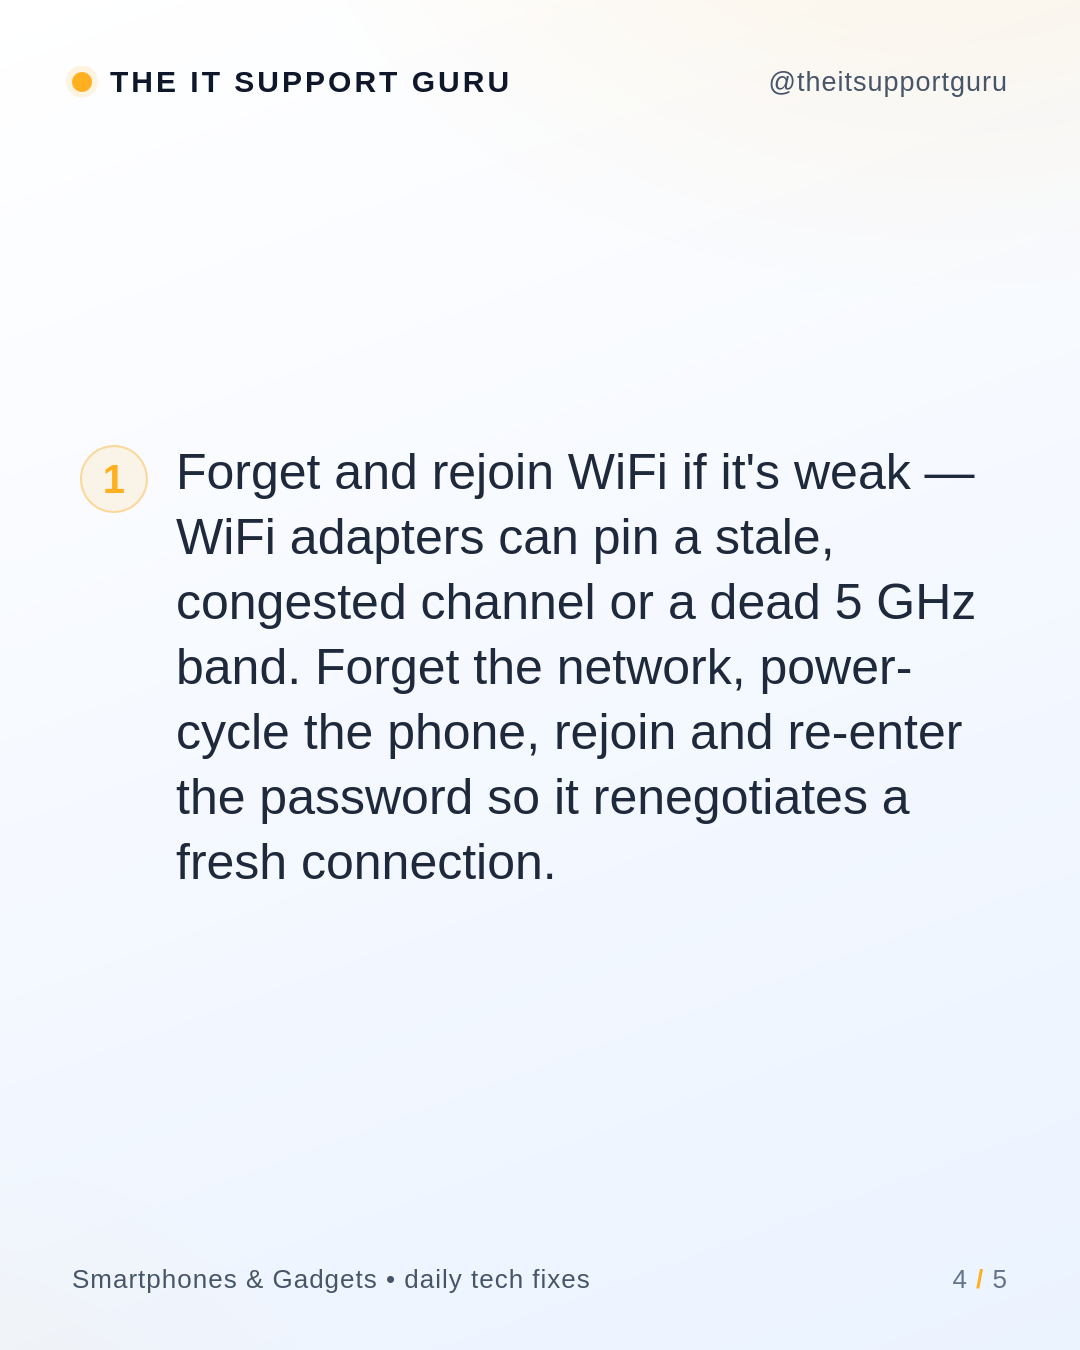
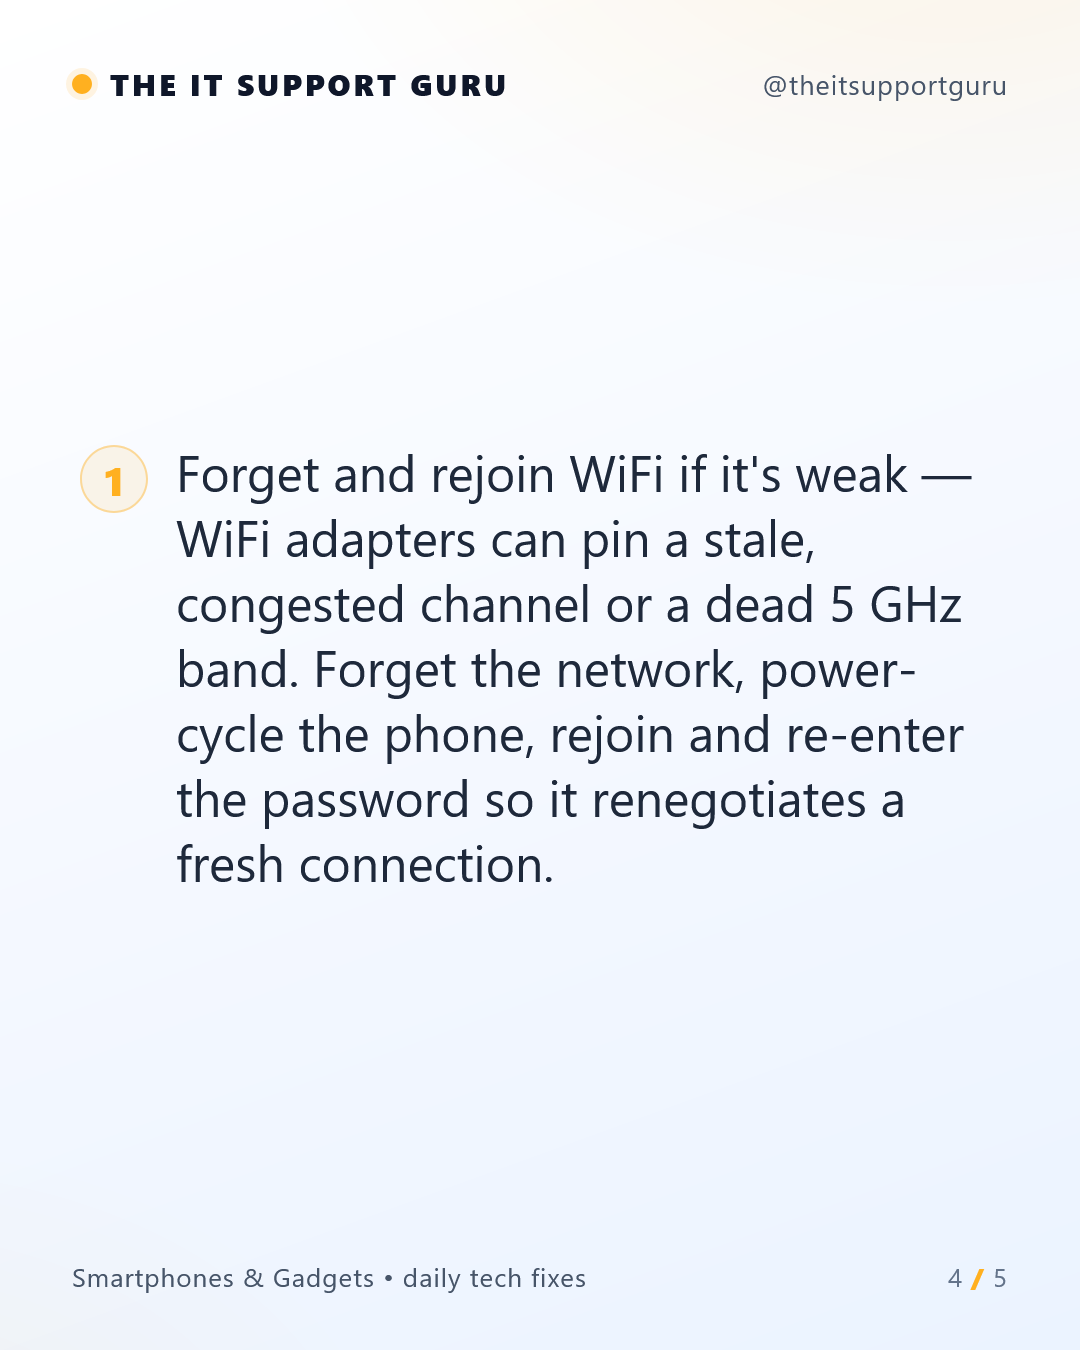
ig-auto: add buffer update (editPost) command; refresh 2026-08-14 cards to new format

diff --git a/src/buffer-publish.js b/src/buffer-publish.js
@@ -90,6 +90,16 @@ function createPostMutation({ text, channelId, dueAt, imageUrls, videoUrl, postT
   return `mutation { createPost(input: { text: ${JSON.stringify(text)}, channelId: ${JSON.stringify(channelId)}, schedulingType: automatic, mode: ${dueAt ? "customScheduled" : "addToQueue"}${dueAt ? `, dueAt: ${JSON.stringify(dueAt)}` : ""}, needsApproval: false, ${meta}${assets.length ? `, assets: [${assets.join(",")}]` : ""} }) { ${frags} } }`;
 }
 
+// editPost replaces a whole scheduled post (text + assets + metadata + dueAt).
+// The channel and approval state are untouched, so this is safe to run right up
+// to publish time for a content/design refresh.
+function editPostMutation({ id, text, dueAt, imageUrls, postType = "post" }) {
+  const assets = (imageUrls || []).map((u) => `{ image: { url: ${JSON.stringify(u)} } }`);
+  const meta = `metadata: { instagram: { type: ${postType}, shouldShareToFeed: true } }`;
+  const frags = `... on PostActionSuccess { post { id status } } ... on InvalidInputError { message } ... on RestProxyError { message } ... on LimitReachedError { message } ... on UnexpectedError { message } ... on UnauthorizedError { message } ... on NotFoundError { message }`;
+  return `mutation { editPost(input: { id: ${JSON.stringify(id)}, text: ${JSON.stringify(text)}, schedulingType: automatic, mode: customScheduled, dueAt: ${JSON.stringify(dueAt)}, ${meta}${assets.length ? `, assets: [${assets.join(",")}]` : ""} }) { ${frags} } }`;
+}
+
 function loadState() {
   if (!fs.existsSync(SCHED_STATE)) return {};
   try {
@@ -198,6 +208,54 @@ export async function scheduleReel(dateStr, { dry = false, state: priorState } =
   return { scheduled: [{ reel: file, bufferId: pid, due }] };
 }
 
+// Refresh one or more already-scheduled Buffer posts with the current plan's
+// text + media (editPost replaces the whole post; dueAt is preserved).
+export async function updateSlots(dateStr, { dry = false, slots = [] } = {}) {
+  const plan = loadPlan();
+  if (!plan || plan.date !== dateStr) throw new Error(`No plan for ${dateStr} (have ${plan ? plan.date : "none"})`);
+  const manifestPath = path.join(config.instagram.postDir, "manifest.json");
+  if (!fs.existsSync(manifestPath)) throw new Error("No manifest.json — run ig-render first");
+  const manifest = JSON.parse(fs.readFileSync(manifestPath, "utf8"));
+  if (manifest.date !== dateStr) throw new Error(`Manifest date ${manifest.date} != ${dateStr}`);
+  const state = loadState();
+  const day = state[dateStr] || {};
+  const targets = slots.length
+    ? slots
+    : Object.keys(day).filter((k) => /^\d+$/.test(k)).map(Number).sort((a, b) => a - b);
+  const updated = [];
+  for (const slot of targets) {
+    const rec = day[slot];
+    if (!rec || !rec.bufferId || String(rec.bufferId).startsWith("web-")) {
+      console.log(`[buffer] slot ${slot}: ${rec ? "not a Buffer post (" + rec.bufferId + ")" : "not scheduled"} — skipping`);
+      continue;
+    }
+    const post = manifest.posts.find((p) => p.slot === slot);
+    if (!post) {
+      console.log(`[buffer] slot ${slot}: no post in manifest — skipping`);
+      continue;
+    }
+    const text = captionForPost(post);
+    const urls = postMediaUrls(post);
+    const mutation = editPostMutation({ id: rec.bufferId, text, dueAt: rec.dueAt, imageUrls: urls });
+    if (dry) {
+      console.log(`[buffer] (dry) slot ${slot} "${post.title}" -> ${rec.bufferId} @ ${rec.dueAt} (${urls.length} assets, caption ${text.length} chars)`);
+      console.log(`        caption: ${text.slice(0, 90).replace(/\n/g, " ")}…`);
+      console.log(`        asset 0: ${urls[0] || "(none)"}`);
+      updated.push({ slot, bufferId: rec.bufferId, text: text.slice(0, 80) + "…", urls });
+      continue;
+    }
+    const data = await gql(mutation);
+    const res = data.editPost || {};
+    if (res.post && res.post.id) {
+      console.log(`[buffer] updated slot ${slot} "${post.title}" -> ${res.post.id} (status ${res.post.status}) @ ${rec.dueAt}`);
+      updated.push({ slot, bufferId: rec.bufferId, status: res.post.status });
+    } else {
+      throw new Error(`Buffer editPost failed for slot ${slot} (${rec.bufferId}): ${res.message || "no post id in response"}`);
+    }
+  }
+  return { date: dateStr, updated };
+}
+
 export async function cmdStatus() {
   const orgs = await getOrganizations();
   console.log("Organizations:");
@@ -210,9 +268,9 @@ export async function cmdStatus() {
   }
 }
 
-export default { scheduleDate, scheduleReel, cmdStatus };
+export default { scheduleDate, scheduleReel, updateSlots, cmdStatus };
 
-// Direct run: `node src/buffer-publish.js status | channels | schedule [--date=YYYYMMDD] [--dry] [--reel]`
+// Direct run: `node src/buffer-publish.js status | channels | schedule [--date=YYYYMMDD] [--dry] [--reel] | update [--date=YYYYMMDD] [--slots=1,2] [--dry]`
 if (process.argv[1] && process.argv[1].replace(/\\/g, "/").endsWith("src/buffer-publish.js")) {
   const args = process.argv.slice(2);
   const cmd = args[0] || "help";
@@ -234,8 +292,12 @@ if (process.argv[1] && process.argv[1].replace(/\\/g, "/").endsWith("src/buffer-
     } else if (cmd === "schedule") {
       const date = (flag("date") || aestDate()).replace(/(\d{4})(\d{2})(\d{2})/, "$1-$2-$3");
       await scheduleDate(date, { dry: has("dry"), reel: has("reel") });
+    } else if (cmd === "update") {
+      const date = (flag("date") || aestDate()).replace(/(\d{4})(\d{2})(\d{2})/, "$1-$2-$3");
+      const slots = (flag("slots") || "").split(",").map((s) => parseInt(s, 10)).filter((n) => !isNaN(n));
+      await updateSlots(date, { dry: has("dry"), slots });
     } else {
-      console.log("Usage: node src/buffer-publish.js status | channels | schedule [--date=YYYY-MM-DD] [--dry] [--reel]");
+      console.log("Usage: node src/buffer-publish.js status | channels | schedule [--date=YYYY-MM-DD] [--dry] [--reel] | update [--date=YYYY-MM-DD] [--slots=1,2] [--dry]");
     }
   };
 
